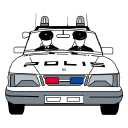
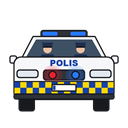
Polisens och vaktens bilder: de nya ritade (dagens polis) i stället för bokens gamla; riktiga korsningar: stopplinjer och hajtänder tvärs över gatan där den verkligen kommer in, inte ute på gräset

diff --git a/spel.js b/spel.js
@@ -2201,8 +2201,38 @@
     ctx.lineCap = "butt"; ctx.lineJoin = "miter";
     return true;
   }
+  // Lines at a real crossing: the map's streets meet at their real angles, so the stop lines and give-way
+  // teeth go across each street where it really comes in, not where a square crossing's arm would be.
+  function drawRealMarks(pc) {
+    var A = mapArea(), v = A && pc.st.real && A.verts[pc.st.real.key];
+    if (!v) return false;
+    var C = pc.C, hx = Math.sin(C.a), hy = -Math.cos(C.a), dirs = [], drv = mapDriven(), next = pc.course.pieces[pc.index + 1];
+    // The road in is the game's own (arm 270); every other street by its direction out of the crossing.
+    dirs.push({ x: -hx, y: -hy, a: 270 });
+    var add = function (dx, dy) {
+      var l = Math.hypot(dx, dy); if (l < 1) return;
+      dx /= l; dy /= l;
+      var along = dx * hx + dy * hy;   // 1 straight on, 0 to the side
+      dirs.push({ x: dx, y: dy, a: along > Math.cos(50 * DEG) ? 90 : 0 });
+    };
+    if (next && next.at && next.kind === "road") { var q = next.at(-1.75, 8); add(q.x - C.x, q.y - C.y); }
+    v.edges.forEach(function (e) { if (drv[e.i]) return; var pts = edgeFrom(e, v, 10), q = pts[pts.length - 1]; add(q.x - v.x, q.y - v.y); });
+    ctx.fillStyle = COL.paint;
+    dirs.forEach(function (d) {
+      var kind = entryLine(pc, d.a);
+      if (!kind) return;
+      // Across the lane coming in: a driver heading back along -d has the lane on his right of -d.
+      var rx = d.y, ry = -d.x, r0 = d.a === 270 ? JH : HW + 1.2;
+      var P = function (r, u) { return { x: C.x + d.x * r + rx * u, y: C.y + d.y * r + ry * u }; };
+      var poly = function (pts) { ctx.beginPath(); pts.forEach(function (p, i) { if (i) ctx.lineTo(p.x, p.y); else ctx.moveTo(p.x, p.y); }); ctx.closePath(); ctx.fill(); };
+      if (kind === "stop") poly([P(r0, 0), P(r0, HW - 0.3), P(r0 + 0.5, HW - 0.3), P(r0 + 0.5, 0)]);
+      else for (var u = 0.2; u < HW - 0.6; u += 0.9) poly([P(r0 + 0.2, u), P(r0 + 0.2, u + 0.6), P(r0 + 1.2, u + 0.3)]);
+    });
+    return true;
+  }
   function drawJunction(pc, pass) {
     if (pc.st.real && pass < 2 && drawRealCrossing(pc, pass)) return;
+    if (pc.st.real && pass === 2 && drawRealMarks(pc)) return;
     var ARM = armLen(pc);
     ctx.save(); ctx.translate(pc.C.x, pc.C.y); ctx.rotate(pc.C.a);
     var stad = pc.env === "stad", verge = stad ? COL.walk : COL.grass;

diff --git a/sw.js b/sw.js
@@ -1,6 +1,6 @@
 // Keeps every file of the app on the phone, so it works without internet.
 // Change VERSION on every change, or phones keep the old files; a new file the app needs goes in FILES.
-var VERSION = "korkort-20261112c";
+var VERSION = "korkort-20261112d";
 var FILES = [
   "./",
   "app.js",
